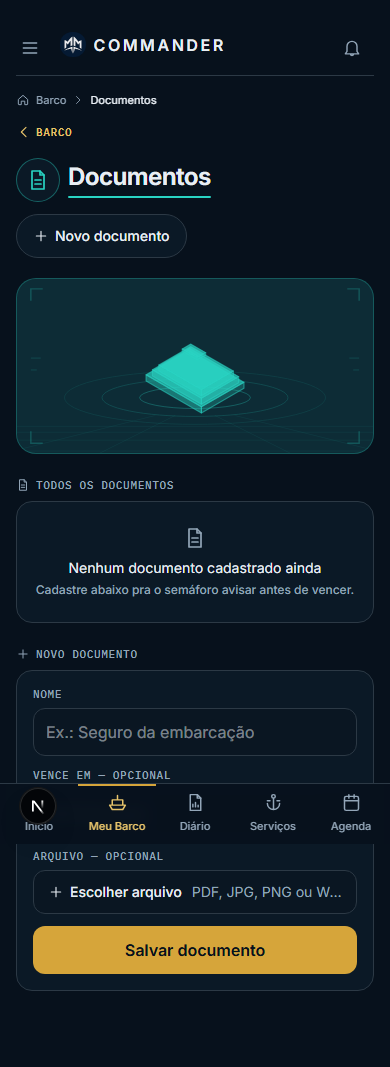
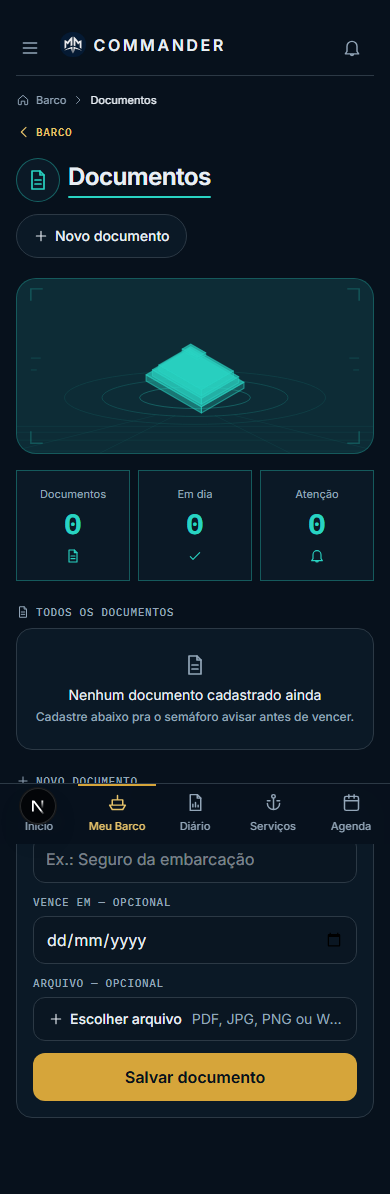
feat(onda 109): os oito hubs passam a ter a mesma anatomia da imagem 3
Segurança era a única com a trinca de números e o botão de largura cheia. Agora
são os oito, e é o que o §8 do guia cobra em uma frase: "cada tela mantém a
MESMA estrutura e muda só objeto, cor técnica, métricas e abas pertinentes".

O VOCABULÁRIO DE CADA TRINCA É O DA TELA, e não um molde repetido:
  · Motores      — Motores · Manutenções · Atenção
  · Casco        — Itens · Em dia · Atenção
  · Elétrica     — Equipamentos · Manutenções · Atenção
  · Hidráulica   — Itens · Em dia · Atenção
  · Segurança    — Itens · Em dia · Atenção
  · Equipamentos — Equipamentos · Manutenções · Atenção
  · Documentos   — Documentos · Em dia · Vencidos/Atenção
  · Manutenções  — Itens · Em dia · Vencidas

A DIFERENÇA ENTRE "ITENS" E "EQUIPAMENTOS" NA PRIMEIRA COLUNA É DE DOMÍNIO, não
de gosto: Motores, Elétrica e Equipamentos LISTAM máquinas, e as manutenções
penduram nelas; Casco, Hidráulica, Segurança e Manutenções listam o item que
vence direto. Contar "itens" numa tela que mostra motores faria a porta
discordar da sala — o mesmo defeito que o filtro dos cards da central técnica
já evita.

E "ATENÇÃO" CONTA ITEM, NUNCA MÁQUINA, mesmo nas três telas de equipamento: a
pergunta que o terceiro número responde é "o que precisa de mim", e um gerador
não precisa de nada — o filtro dele é que precisa.

DOCUMENTOS: A FAIXA DE QUATRO PASTILHAS SAIU. A imagem 5 desenha esta tela com
TRÊS cartões grandes ("12 documentos · 10 em dia · 2 atenção"), não com quatro
[…]

diff --git a/web/app/(app)/barco/documentos/page.tsx b/web/app/(app)/barco/documentos/page.tsx
@@ -6,12 +6,12 @@ import { CabecalhoDetalhe } from "@/components/ui/cabecalho-detalhe"
 import { Campo } from "@/components/ui/campo"
 import { CampoArquivo } from "@/components/ui/campo-arquivo"
 import { EstadoVazio } from "@/components/ui/estado-vazio"
-import { FaixaKpi, PastilhaKpi } from "@/components/ui/faixa-kpi"
 import { LinhaLista } from "@/components/ui/linha-lista"
 import { MigalhaPao } from "@/components/ui/migalha-pao"
 import { SecaoPagina } from "@/components/ui/secao-pagina"
 import { Selo } from "@/components/ui/selo"
 import { HeroiTecnico } from "@/components/ui/heroi-tecnico"
+import { NumerosDoHub } from "@/components/ui/numeros-do-hub"
 import { anexarArquivo, criarDocumento, excluirDocumento } from "@/lib/acoes/documentos"
 import { carregarPainel, hojeISO, itemMonitoradoToItemCalc } from "@/lib/consultas"
 import { indiceDoDestaque, resumoDosDocumentos } from "@/lib/domain/documentos"
@@ -77,6 +77,10 @@ export default async function DocumentosPage({
   const vencidos = avaliados.filter((a) => a.r.status === "vencido").length
   const emAtencao = avaliados.filter((a) => a.r.status === "atencao").length
   const resumo = resumoDosDocumentos(total, comValidade, vencidos, emAtencao)
+  // ONDA 109 — "em dia" é o complemento de vencido e atenção dentro do que TEM
+  // validade; documento sem validade não vota, que é a mesma regra de
+  // honestidade de `temInformacaoSuficiente`.
+  const emDia = comValidade - vencidos - emAtencao
 
   return (
     <main>
@@ -89,15 +93,6 @@ export default async function DocumentosPage({
           referência). Mas com NENHUM documento cadastrado a faixa inteira
           sai: quatro zeros numa tela vazia é decorar o vazio, que a régua
           proíbe (docs/DESIGN.md §6, regra 4). */}
-      {total > 0 && (
-        <FaixaKpi className="mt-2">
-          <PastilhaKpi icone="documento" rotulo="Documentos" valor={String(total)} />
-          <PastilhaKpi icone="calendario" rotulo="Com validade" valor={String(comValidade)} />
-          <PastilhaKpi icone="alerta" rotulo="Vencidos" valor={String(vencidos)} />
-          <PastilhaKpi icone="relogio" rotulo="Atenção" valor={String(emAtencao)} />
-        </FaixaKpi>
-      )}
-
       <CabecalhoDetalhe
         className="mt-3"
         voltarHref="/barco"
@@ -116,6 +111,29 @@ export default async function DocumentosPage({
           `components/ui/heroi-tecnico.tsx` e o desvio de biblioteca de assets
           registrado em `docs/DESIGN-SYSTEM.md`. */}
       <HeroiTecnico chave="documentos" className="mt-5 mb-4" />
+
+      {/* ONDA 109 — A FAIXA DE QUATRO PASTILHAS VIROU A TRINCA DA IMAGEM 5.
+          O guia desenha esta tela com TRÊS cartões grandes ("12 documentos ·
+          10 em dia · 2 atenção"), e não com quatro pílulas de 28px acima do
+          título. Os números são os MESMOS de antes — nenhum cálculo mudou; o
+          que saiu foi "Com validade", que é censo e não muda o que a pessoa faz
+          hoje (o critério inteiro está em `numeros-do-hub.tsx`).
+          "Vencidos" entra como CRÍTICO e não como atenção: vermelho é
+          vencido/erro pelo §4, e um documento vencido é exatamente isso. */}
+      <NumerosDoHub
+        chave="documentos"
+        className="mb-4"
+        numeros={[
+          { rotulo: "Documentos", valor: String(total), icone: "documento" },
+          { rotulo: "Em dia", valor: String(emDia), icone: "check" },
+          {
+            rotulo: vencidos > 0 ? "Vencidos" : "Atenção",
+            valor: String(vencidos > 0 ? vencidos : emAtencao),
+            icone: "alerta",
+            estado: vencidos > 0 ? "critico" : emAtencao > 0 ? "atencao" : undefined,
+          },
+        ]}
+      />
       {erro && <p className="mt-3 rounded-[var(--raio-controle)] border border-crit/40 bg-crit/10 px-3 py-2 corpo">{erro}</p>}
 
       {/* O cartão do vencido (canvas tela-3d): borda lateral crítica, a

diff --git a/web/app/(app)/barco/eletrica/page.tsx b/web/app/(app)/barco/eletrica/page.tsx
@@ -5,6 +5,7 @@ import { Icone } from "@/components/icone"
 import { SecaoPagina } from "@/components/ui/secao-pagina"
 import { CabecalhoDetalhe } from "@/components/ui/cabecalho-detalhe"
 import { HeroiTecnico } from "@/components/ui/heroi-tecnico"
+import { NumerosDoHub } from "@/components/ui/numeros-do-hub"
 import { carregarPainel, hojeISO, itemMonitoradoToItemCalc } from "@/lib/consultas"
 import { abaDoEquipamento } from "@/lib/domain/diario"
 import { calcularSemaforo, PESO, type StatusFarol } from "@/lib/domain/semaforo"
@@ -52,6 +53,15 @@ export default async function EletricaPage() {
       })
       .sort((a, b) => PESO[b] - PESO[a])[0] ?? "ok"
 
+  // ONDA 109 — os números da trinca. `statusDe` já existe e é a régua desta
+  // tela; aqui o recorte é por ITEM e não por equipamento, porque "Atenção" tem
+  // que contar o que vence, não quantas máquinas existem.
+  const itensDaArea = painel.itens.filter((i) => equipamentos.some((e) => e.id === i.equipamento_id))
+  const pedemAtencao = itensDaArea.filter((i) => {
+    const eq = equipamentos.find((e) => e.id === i.equipamento_id)
+    return calcularSemaforo(itemMonitoradoToItemCalc(i), eq?.horas_atuais ?? null, hoje).status !== "ok"
+  }).length
+
   const rotuloTipo: Record<string, string> = {
     gerador: "Gerador", bateria: "Baterias", painel: "Painel de bordo",
   }
@@ -82,6 +92,23 @@ export default async function EletricaPage() {
           `components/ui/heroi-tecnico.tsx` e o desvio de biblioteca de assets
           registrado em `docs/DESIGN-SYSTEM.md`. */}
       <HeroiTecnico chave="eletrica" className="mt-5 mb-4" />
+
+      {/* ONDA 109 — a trinca da imagem 3. O universo aqui é EQUIPAMENTO (é o
+          que a tela lista), e os itens dele entram como segunda coluna. */}
+      <NumerosDoHub
+        chave="eletrica"
+        className="mb-4"
+        numeros={[
+          { rotulo: "Equipamentos", valor: String(equipamentos.length), icone: "raio" },
+          { rotulo: "Manutenções", valor: String(itensDaArea.length), icone: "relogio" },
+          {
+            rotulo: "Atenção",
+            valor: String(pedemAtencao),
+            icone: "alerta",
+            estado: pedemAtencao > 0 ? "atencao" : undefined,
+          },
+        ]}
+      />
 
       <div className="sombra-1 mt-6 rounded-[var(--raio-cartao)] border border-line bg-panel px-4">
         {equipamentos.length === 0 && (

diff --git a/web/app/(app)/barco/hidraulica/page.tsx b/web/app/(app)/barco/hidraulica/page.tsx
@@ -5,6 +5,7 @@ import { LinhaLista } from "@/components/ui/linha-lista"
 import { SecaoPagina } from "@/components/ui/secao-pagina"
 import { CabecalhoDetalhe } from "@/components/ui/cabecalho-detalhe"
 import { HeroiTecnico } from "@/components/ui/heroi-tecnico"
+import { AcaoDoHub, NumerosDoHub } from "@/components/ui/numeros-do-hub"
 import { carregarPainel, hojeISO, itemMonitoradoToItemCalc } from "@/lib/consultas"
 import { CATEGORIAS_HIDRAULICA, ROTULO_HIDRAULICA } from "@/lib/domain/diario"
 import { ESTADOS_QUE_PESAM_NA_SAUDE, ROTULO_ESTADO } from "@/lib/domain/ocorrencias"
@@ -29,6 +30,13 @@ export default async function HidraulicaPage() {
     .in("estado", [...ESTADOS_QUE_PESAM_NA_SAUDE]).order("created_at", { ascending: false })
   const ocorrencias = (ocorrenciasBrutas ?? []) as Ocorrencia[]
 
+  // ONDA 109 — a trinca da imagem 3. Mesma régua da lista abaixo
+  // (`calcularSemaforo`), calculada uma vez: número do topo que discorda das
+  // linhas de baixo é o defeito que a onda 92 já pagou uma vez.
+  const estados = itens.map((i) => calcularSemaforo(itemMonitoradoToItemCalc(i), null, hoje).status)
+  const emDia = estados.filter((s) => s === "ok").length
+  const pedemAtencao = estados.filter((s) => s !== "ok").length
+
   return (
     <main>
       {/* ONDA 104 (§8 do Guia) — cabeçalho padrão, com a identidade do hub. */}
@@ -44,6 +52,31 @@ export default async function HidraulicaPage() {
           `components/ui/heroi-tecnico.tsx` e o desvio de biblioteca de assets
           registrado em `docs/DESIGN-SYSTEM.md`. */}
       <HeroiTecnico chave="hidraulica" className="mt-5 mb-4" />
+
+      <NumerosDoHub
+        chave="hidraulica"
+        className="mb-4"
+        numeros={[
+          { rotulo: "Itens", valor: String(itens.length), icone: "oleo" },
+          { rotulo: "Em dia", valor: String(emDia), icone: "check" },
+          {
+            rotulo: "Atenção",
+            valor: String(pedemAtencao),
+            icone: "alerta",
+            estado: pedemAtencao > 0 ? "atencao" : undefined,
+          },
+        ]}
+      />
+
+      {editavel && (
+        <AcaoDoHub
+          chave="hidraulica"
+          href={`/barco/itens/novo?alvo=${encodeURIComponent("cat:hidraulica_agua_doce")}`}
+          className="mb-6"
+        >
+          Cadastrar item
+        </AcaoDoHub>
+      )}
 
       {ocorrencias.length > 0 && (
         <>

diff --git a/web/app/(app)/barco/motores/page.tsx b/web/app/(app)/barco/motores/page.tsx
@@ -5,6 +5,7 @@ import { Icone } from "@/components/icone"
 import { CabecalhoDetalhe } from "@/components/ui/cabecalho-detalhe"
 import { EstadoVazio } from "@/components/ui/estado-vazio"
 import { HeroiTecnico } from "@/components/ui/heroi-tecnico"
+import { NumerosDoHub } from "@/components/ui/numeros-do-hub"
 import { carregarPainel, hojeISO, itemMonitoradoToItemCalc } from "@/lib/consultas"
 import { podeEditar, podeVer } from "@/lib/domain/permissoes"
 import {
@@ -53,6 +54,16 @@ export default async function MotoresPage() {
       })
       .sort((a, b) => PESO[b] - PESO[a])[0] ?? null
 
+  // ONDA 109 — os números da trinca. Recorte por ITEM, e a régua de quem vota
+  // é `temInformacaoSuficiente`, a mesma de `statusDoMotor`: item sem
+  // intervalo nem data não conta nem a favor nem contra.
+  const itensDosMotores = painel.itens.filter((i) => motores.some((m) => m.id === i.equipamento_id))
+  const pedemAtencao = itensDosMotores.filter((i) => {
+    const horas = motores.find((m) => m.id === i.equipamento_id)?.horas_atuais ?? null
+    const calc = itemMonitoradoToItemCalc(i)
+    return temInformacaoSuficiente(calc, horas) && calcularSemaforo(calc, horas, hoje).status !== "ok"
+  }).length
+
   return (
     <main>
       <CabecalhoDetalhe
@@ -75,6 +86,24 @@ export default async function MotoresPage() {
           `components/ui/heroi-tecnico.tsx` e o desvio de biblioteca de assets
           registrado em `docs/DESIGN-SYSTEM.md`. */}
       <HeroiTecnico chave="motores" className="mt-5 mb-4" />
+
+      {/* ONDA 109 — a trinca da imagem 3, com o vocabulário desta tela: quantos
+          motores, quantas manutenções penduradas neles, e quantas pedem
+          atenção. Os números saem de `painel`, que já está em mãos. */}
+      <NumerosDoHub
+        chave="motores"
+        className="mb-4"
+        numeros={[
+          { rotulo: "Motores", valor: String(motores.length), icone: "motor" },
+          { rotulo: "Manutenções", valor: String(itensDosMotores.length), icone: "relogio" },
+          {
+            rotulo: "Atenção",
+            valor: String(pedemAtencao),
+            icone: "alerta",
+            estado: pedemAtencao > 0 ? "atencao" : undefined,
+          },
+        ]}
+      />
 
       {motores.length === 0 ? (
         <EstadoVazio

diff --git a/web/app/(app)/barco/equipamentos/page.tsx b/web/app/(app)/barco/equipamentos/page.tsx
@@ -5,6 +5,7 @@ import { Icone } from "@/components/icone"
 import { EstadoVazio } from "@/components/ui/estado-vazio"
 import { CabecalhoDetalhe } from "@/components/ui/cabecalho-detalhe"
 import { HeroiTecnico } from "@/components/ui/heroi-tecnico"
+import { NumerosDoHub } from "@/components/ui/numeros-do-hub"
 import { carregarPainel, hojeISO, itemMonitoradoToItemCalc } from "@/lib/consultas"
 import { abaDoEquipamento } from "@/lib/domain/diario"
 import { calcularSemaforo, PESO, type StatusFarol } from "@/lib/domain/semaforo"
@@ -40,6 +41,14 @@ export default async function EquipamentosPage() {
       })
       .sort((a, b) => PESO[b] - PESO[a])[0] ?? "ok"
 
+  // ONDA 109 — os números da trinca. Recorte por ITEM e não por equipamento:
+  // "Atenção" conta o que vence, não quantas máquinas existem.
+  const itensDaArea = painel.itens.filter((i) => equipamentos.some((e) => e.id === i.equipamento_id))
+  const pedemAtencao = itensDaArea.filter((i) => {
+    const eq = equipamentos.find((e) => e.id === i.equipamento_id)
+    return calcularSemaforo(itemMonitoradoToItemCalc(i), eq?.horas_atuais ?? null, hoje).status !== "ok"
+  }).length
+
   return (
     <main>
       {/* ONDA 104 (§8 do Guia) — cabeçalho padrão, com a identidade do hub. */}
@@ -63,6 +72,21 @@ export default async function EquipamentosPage() {
           `components/ui/heroi-tecnico.tsx` e o desvio de biblioteca de assets
           registrado em `docs/DESIGN-SYSTEM.md`. */}
       <HeroiTecnico chave="equipamentos" className="mt-5 mb-4" />
+
+      <NumerosDoHub
+        chave="equipamentos"
+        className="mb-4"
+        numeros={[
+          { rotulo: "Equipamentos", valor: String(equipamentos.length), icone: "ferramenta" },
+          { rotulo: "Manutenções", valor: String(itensDaArea.length), icone: "relogio" },
+          {
+            rotulo: "Atenção",
+            valor: String(pedemAtencao),
+            icone: "alerta",
+            estado: pedemAtencao > 0 ? "atencao" : undefined,
+          },
+        ]}
+      />
 
       <div className="sombra-1 mt-6 rounded-[var(--raio-cartao)] border border-line bg-panel px-4">
         {equipamentos.length === 0 && (

diff --git a/web/app/(app)/barco/casco/page.tsx b/web/app/(app)/barco/casco/page.tsx
@@ -6,6 +6,7 @@ import { CabecalhoDetalhe } from "@/components/ui/cabecalho-detalhe"
 import { LinhaLista } from "@/components/ui/linha-lista"
 import { SecaoPagina } from "@/components/ui/secao-pagina"
 import { HeroiTecnico } from "@/components/ui/heroi-tecnico"
+import { NumerosDoHub } from "@/components/ui/numeros-do-hub"
 import { carregarPainel, hojeISO, itemMonitoradoToItemCalc } from "@/lib/consultas"
 import { CATEGORIAS_CASCO, ROTULO_CASCO } from "@/lib/domain/diario"
 import { podeEditar, podeVer } from "@/lib/domain/permissoes"
@@ -54,6 +55,13 @@ export default async function CascoPage() {
   const comItens = CATEGORIAS_CASCO.filter((c) => itensDaCategoria(c).length > 0)
   const semItens = CATEGORIAS_CASCO.filter((c) => itensDaCategoria(c).length === 0)
 
+  // ONDA 109 — a trinca da imagem 3. O universo é o MESMO que o card "Casco"
+  // da central técnica conta: item cuja categoria está em CATEGORIAS_CASCO.
+  const doCasco = painel.itens.filter((i) => (CATEGORIAS_CASCO as readonly string[]).includes(i.categoria ?? ""))
+  const estados = doCasco.map((i) => calcularSemaforo(itemMonitoradoToItemCalc(i), null, hoje).status)
+  const emDia = estados.filter((s) => s === "ok").length
+  const pedemAtencao = estados.filter((s) => s !== "ok").length
+
   return (
     <main>
       <CabecalhoDetalhe
@@ -82,6 +90,21 @@ export default async function CascoPage() {
           `components/ui/heroi-tecnico.tsx` e o desvio de biblioteca de assets
           registrado em `docs/DESIGN-SYSTEM.md`. */}
       <HeroiTecnico chave="casco" className="mt-5 mb-4" />
+
+      <NumerosDoHub
+        chave="casco"
+        className="mb-4"
+        numeros={[
+          { rotulo: "Itens", valor: String(doCasco.length), icone: "embarcacao" },
+          { rotulo: "Em dia", valor: String(emDia), icone: "check" },
+          {
+            rotulo: "Atenção",
+            valor: String(pedemAtencao),
+            icone: "alerta",
+            estado: pedemAtencao > 0 ? "atencao" : undefined,
+          },
+        ]}
+      />
 
       {comItens.map((c) => (
         <div key={c}>

diff --git a/web/app/(app)/barco/manutencoes/page.tsx b/web/app/(app)/barco/manutencoes/page.tsx
@@ -6,6 +6,7 @@ import { CabecalhoDetalhe } from "@/components/ui/cabecalho-detalhe"
 import { EstadoVazio } from "@/components/ui/estado-vazio"
 import { LinhaLista } from "@/components/ui/linha-lista"
 import { HeroiTecnico } from "@/components/ui/heroi-tecnico"
+import { AcaoDoHub, NumerosDoHub } from "@/components/ui/numeros-do-hub"
 import { carregarPainel, hojeISO, itemMonitoradoToItemCalc } from "@/lib/consultas"
 import { podeEditar, podeVer } from "@/lib/domain/permissoes"
 import { calcularSemaforo, formatarDataCurta, PESO, vencimentoPorData } from "@/lib/domain/semaforo"
@@ -45,6 +46,7 @@ export default async function ManutencoesPage() {
     .sort((a, b) =>
       PESO[b.r.status] - PESO[a.r.status]
       || (a.r.diasRestantes ?? Infinity) - (b.r.diasRestantes ?? Infinity))
+  const vencidas = linhas.filter((l) => l.r.status === "vencido").length
 
   return (
     <main>
@@ -68,6 +70,29 @@ export default async function ManutencoesPage() {
           `components/ui/heroi-tecnico.tsx` e o desvio de biblioteca de assets
           registrado em `docs/DESIGN-SYSTEM.md`. */}
       <HeroiTecnico chave="manutencoes" className="mt-5 mb-4" />
+
+      {/* ONDA 109 — a trinca da imagem 3, com os números que ESTA tela tem.
+          "Vencidas" é o único que vira cor de estado, e só acima de zero. */}
+      <NumerosDoHub
+        chave="manutencoes"
+        className="mb-4"
+        numeros={[
+          { rotulo: "Itens", valor: String(linhas.length), icone: "relogio" },
+          { rotulo: "Em dia", valor: String(linhas.filter((l) => l.r.status === "ok").length), icone: "check" },
+          {
+            rotulo: "Vencidas",
+            valor: String(vencidas),
+            icone: "alerta",
+            estado: vencidas > 0 ? "critico" : undefined,
+          },
+        ]}
+      />
+
+      {editavel && (
+        <AcaoDoHub chave="manutencoes" href="/barco/itens/novo" className="mb-6">
+          Cadastrar manutenção
+        </AcaoDoHub>
+      )}
 
       {linhas.length === 0 ? (
         <EstadoVazio
